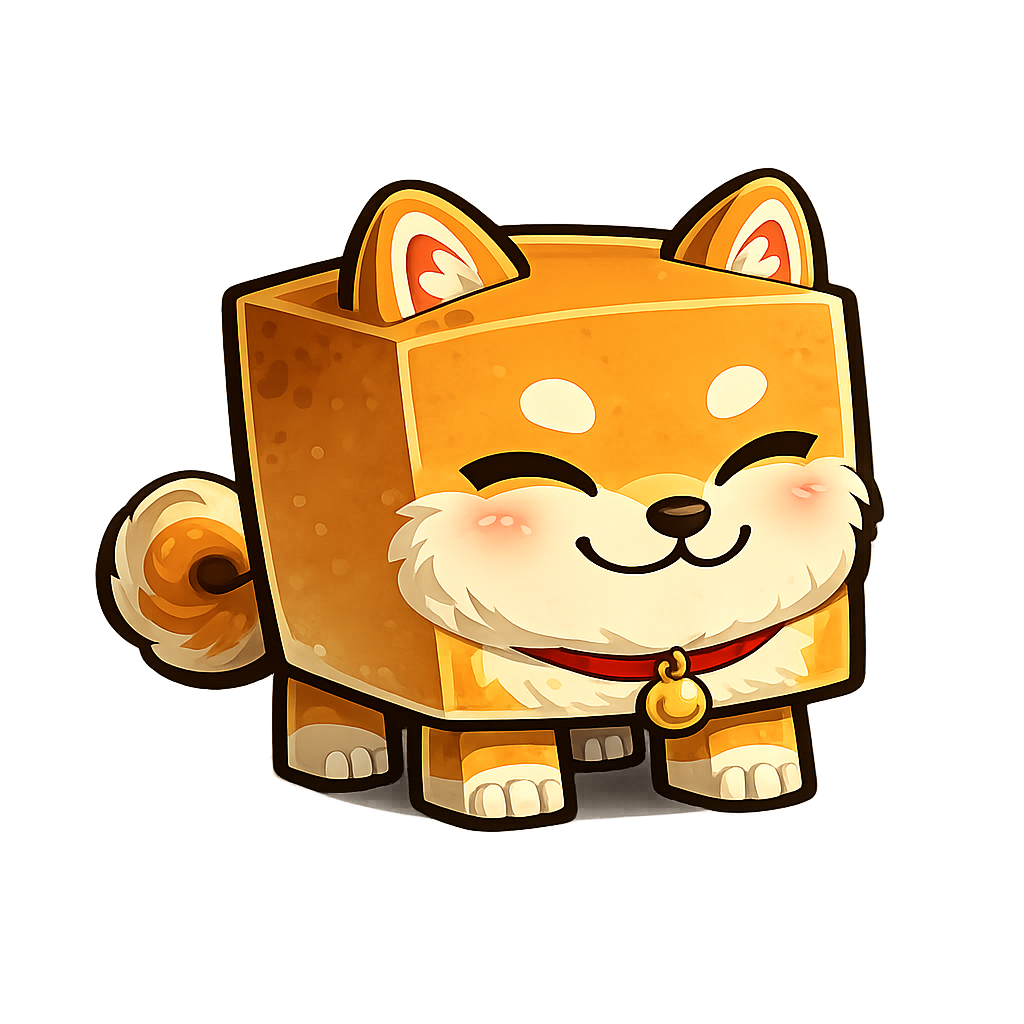
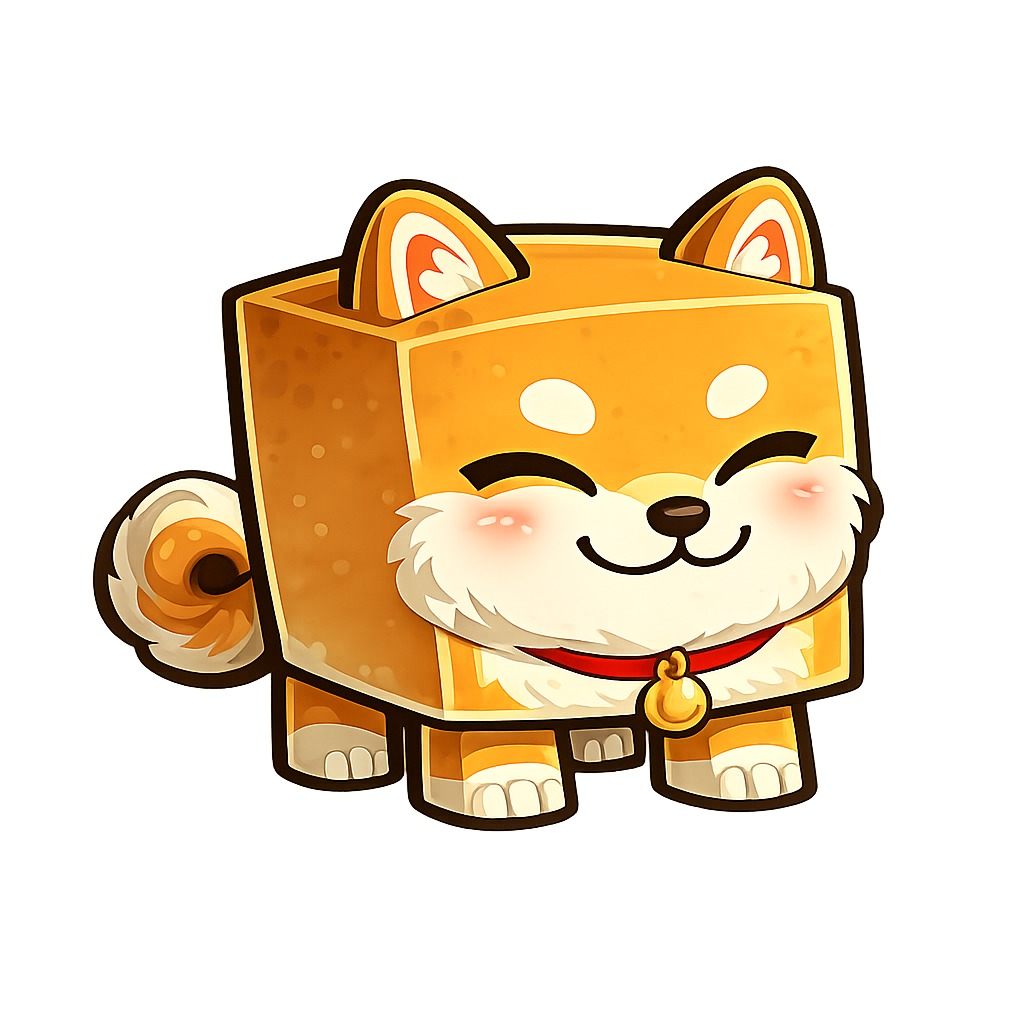
Implement level-up feature with new egg mechanics and localization updates
- Added LevelUpData interface to manage level-up events, including egg changes.
- Updated GameManager to emit detailed level-up events with egg key changes.
- Introduced LevelUpOverlay in MainScene to display level-up notifications.
- Enhanced egg-related functions in data layer for better odds representation.
- Updated English and Russian localization files to include new level-up messages.
- Replaced Shiba.webp with Shiba.png for improved asset consistency.

diff --git a/src/ui/LevelUpOverlay.ts b/src/ui/LevelUpOverlay.ts
@@ -1,0 +1,155 @@
+import { GameObjects, Scene } from 'phaser';
+import { GAME_WIDTH, GAME_HEIGHT, UI } from '../core/config';
+import { LevelUpData } from '../types';
+import { getEggNameKey, getEggMinOdds } from '../data/eggs';
+import { t } from '../data/locales';
+
+const CX = GAME_WIDTH / 2;
+const CY = GAME_HEIGHT / 2;
+const DEPTH = 103;
+
+export class LevelUpOverlay {
+    private scene: Scene;
+    private overlay: GameObjects.Rectangle;
+    private elements: GameObjects.GameObject[] = [];
+
+    constructor(scene: Scene, overlay: GameObjects.Rectangle) {
+        this.scene = scene;
+        this.overlay = overlay;
+    }
+
+    show(data: LevelUpData, autorollActive: boolean, onComplete: () => void): void {
+        this.cleanup();
+
+        const container = this.scene.add.container(CX, CY).setDepth(DEPTH).setScale(0).setAlpha(1);
+        this.elements.push(container);
+
+        // Title (28 * 1.5 = 42)
+        const title = this.scene.add.text(0, -95, t('levelup_title'), {
+            fontFamily: UI.FONT_MAIN,
+            fontSize: '42px',
+            color: '#ffc107',
+            stroke: '#000000',
+            strokeThickness: UI.STROKE_THICK,
+        }).setOrigin(0.5);
+        container.add(title);
+
+        // Level number (20 * 1.5 = 30)
+        const levelText = this.scene.add.text(0, -55, `${t('level')} ${data.level}`, {
+            fontFamily: UI.FONT_MAIN,
+            fontSize: '30px',
+            color: '#ffffff',
+            stroke: '#000000',
+            strokeThickness: UI.STROKE_THICK,
+        }).setOrigin(0.5);
+        container.add(levelText);
+
+        if (data.eggChanged) {
+            this.buildEggTransition(container, data);
+        } else {
+            this.buildSingleEgg(container, data);
+        }
+
+        // Egg effect text (white, both cases)
+        const effectY = data.eggChanged ? 120 : 135;
+        const odds = getEggMinOdds(data.level);
+        const effectStr = t('egg_effect').replace('{odds}', odds);
+        const effect = this.scene.add.text(0, effectY, effectStr, {
+            fontFamily: UI.FONT_MAIN,
+            fontSize: '18px',
+            color: '#ffffff',
+            stroke: '#000000',
+            strokeThickness: UI.STROKE_MEDIUM,
+        }).setOrigin(0.5);
+        container.add(effect);
+
+        // Animate in
+        this.scene.tweens.add({
+            targets: container,
+            scale: 1,
+            duration: 300,
+            ease: 'Back.easeOut',
+        });
+
+        // Hold then fade
+        const holdTime = autorollActive ? 400 : 900;
+        this.scene.time.delayedCall(holdTime + 300, () => {
+            this.fadeOut(autorollActive, onComplete);
+        });
+    }
+
+    private buildEggTransition(container: GameObjects.Container, data: LevelUpData): void {
+        // Old egg (left)
+        const oldEgg = this.scene.add.image(-80, 20, data.oldEggKey)
+            .setDisplaySize(100, 100);
+        container.add(oldEgg);
+
+        // Arrow image (rotated -90deg so it points right)
+        const arrow = this.scene.add.image(0, 20, 'ui_arrow')
+            .setDisplaySize(32, 32)
+            .setRotation(-Math.PI / 2);
+        container.add(arrow);
+
+        // New egg (right)
+        const newEgg = this.scene.add.image(80, 20, data.eggKey)
+            .setDisplaySize(100, 100);
+        container.add(newEgg);
+
+        // "New Egg: Golden Egg" — single line, yellow (16 * 1.5 = 24)
+        const label = `${t('levelup_new_egg')} ${t(getEggNameKey(data.eggKey))}`;
+        const newEggLabel = this.scene.add.text(0, 90, label, {
+            fontFamily: UI.FONT_MAIN,
+            fontSize: '24px',
+            color: '#ffc107',
+            stroke: '#000000',
+            strokeThickness: UI.STROKE_MEDIUM,
+        }).setOrigin(0.5);
+        container.add(newEggLabel);
+    }
+
+    private buildSingleEgg(container: GameObjects.Container, data: LevelUpData): void {
+        // Current egg centered
+        const egg = this.scene.add.image(0, 30, data.eggKey)
+            .setDisplaySize(120, 120);
+        container.add(egg);
+
+        // Egg name (14 * 1.5 = 21)
+        const eggName = this.scene.add.text(0, 108, t(getEggNameKey(data.eggKey)), {
+            fontFamily: UI.FONT_MAIN,
+            fontSize: '21px',
+            color: '#ffffff',
+            stroke: '#000000',
+            strokeThickness: UI.STROKE_MEDIUM,
+        }).setOrigin(0.5);
+        container.add(eggName);
+    }
+
+    private fadeOut(autorollActive: boolean, onComplete: () => void): void {
+        // Fade overlay unless autoroll keeps it
+        if (!autorollActive) {
+            this.scene.tweens.add({
+                targets: this.overlay,
+                fillAlpha: 0,
+                duration: 250,
+            });
+        }
+
+        // Fade content
+        this.scene.tweens.add({
+            targets: this.elements,
+            alpha: 0,
+            duration: 250,
+            onComplete: () => {
+                this.cleanup();
+                onComplete();
+            },
+        });
+    }
+
+    private cleanup(): void {
+        for (const el of this.elements) {
+            el.destroy();
+        }
+        this.elements = [];
+    }
+}

diff --git a/src/scenes/MainScene.ts b/src/scenes/MainScene.ts
@@ -4,6 +4,7 @@ import { EventBus } from '../core/EventBus';
 import { GameManager } from '../core/GameManager';
 import { TopBar } from '../ui/TopBar';
 import { CenterStage } from '../ui/CenterStage';
+import { LevelUpOverlay } from '../ui/LevelUpOverlay';
 import { RightPanel } from '../ui/RightPanel';
 import { CollectionButton } from '../ui/CollectionButton';
 import { SettingsButton } from '../ui/SettingsButton';
@@ -12,9 +13,8 @@ import { BonusPanel } from '../ui/BonusPanel';
 import { Leaderboard } from '../ui/Leaderboard';
 import { NicknamePrompt } from '../ui/NicknamePrompt';
 import { ArrowHint } from '../ui/ArrowHint';
-import { showFloatingText } from '../ui/components/FloatingText';
 import { PETS } from '../data/pets';
-import { PetDef, RollResult } from '../types';
+import { PetDef, RollResult, LevelUpData } from '../types';
 import { AudioSystem } from '../systems/AudioSystem';
 import { t } from '../data/locales';
 
@@ -35,6 +35,8 @@ export class MainScene extends Scene {
     private pauseOverlay!: Phaser.GameObjects.Container;
     private arrowHint: ArrowHint | null = null;
     private idleTimer = 0;
+    private levelUpOverlay!: LevelUpOverlay;
+    private pendingLevelUp: LevelUpData | null = null;
 
     constructor() {
         super('MainScene');
@@ -70,6 +72,7 @@ export class MainScene extends Scene {
 
         this.leaderboard = new Leaderboard(this);
         this.centerStage = new CenterStage(this);
+        this.levelUpOverlay = new LevelUpOverlay(this, this.centerStage.getOverlay());
 
         this.rightPanel = new RightPanel(
             this,
@@ -214,19 +217,29 @@ export class MainScene extends Scene {
     private onRollComplete(result: RollResult): void {
         this.rightPanel.setRolling(true);
         this.centerStage.playHatch(result, () => {
-            this.manager.finishRoll();
-            this.rightPanel.setRolling(false);
-            this.refreshUI();
+            if (this.pendingLevelUp) {
+                const data = this.pendingLevelUp;
+                this.pendingLevelUp = null;
+                const autoActive = this.manager.buffs.isAutorollActive();
+                this.levelUpOverlay.show(data, autoActive, () => {
+                    this.centerStage.setEggImage(data.eggKey);
+                    this.bgImage.setTexture(data.bgKey);
+                    this.centerStage.setKeepOverlay(false);
+                    this.manager.finishRoll();
+                    this.rightPanel.setRolling(false);
+                    this.refreshUI();
+                });
+            } else {
+                this.manager.finishRoll();
+                this.rightPanel.setRolling(false);
+                this.refreshUI();
+            }
         });
     }
 
-    private onLevelUp(data: { level: number; eggKey: string; bgKey: string }): void {
-        showFloatingText(
-            this, GAME_WIDTH / 2, GAME_HEIGHT / 2 - 100,
-            `${t('level_up')} ${data.level}`, '#ffc107', 24,
-        );
-        this.centerStage.setEggImage(data.eggKey);
-        this.bgImage.setTexture(data.bgKey);
+    private onLevelUp(data: LevelUpData): void {
+        this.pendingLevelUp = data;
+        this.centerStage.setKeepOverlay(true);
     }
 
     private onBuffActivated(buff: string): void {

diff --git a/src/ui/CenterStage.ts b/src/ui/CenterStage.ts
@@ -19,6 +19,7 @@ export class CenterStage extends GameObjects.Container {
     private slots: PedestalSlot[] = [];
     private audio: AudioSystem | null = null;
     private autorollOverlayActive = false;
+    private keepOverlay = false;
 
     // Roll overlay elements
     private overlay: GameObjects.Rectangle;
@@ -289,8 +290,8 @@ export class CenterStage extends GameObjects.Container {
         // 5) Hold, then fade out reveal elements (shorter hold during autoroll)
         const holdTime = this.autorollOverlayActive ? 400 : 900;
         scene.time.delayedCall(holdTime, () => {
-            // Only fade overlay if autoroll is NOT keeping it persistent
-            if (!this.autorollOverlayActive) {
+            // Only fade overlay if nothing is keeping it persistent
+            if (!this.autorollOverlayActive && !this.keepOverlay) {
                 scene.tweens.add({
                     targets: this.overlay,
                     fillAlpha: 0,
@@ -313,6 +314,14 @@ export class CenterStage extends GameObjects.Container {
             });
         });
     }
+    setKeepOverlay(keep: boolean): void {
+        this.keepOverlay = keep;
+    }
+
+    getOverlay(): GameObjects.Rectangle {
+        return this.overlay;
+    }
+
     setAutorollOverlay(active: boolean): void {
         this.autorollOverlayActive = active;
         this.scene.tweens.killTweensOf(this.overlay);

diff --git a/src/data/eggs.ts b/src/data/eggs.ts
@@ -1,6 +1,6 @@
 import { PetDef } from '../types';
 import { PETS } from './pets';
-import { getVisualTier, VISUAL_TIERS } from '../core/config';
+import { getVisualTier, VISUAL_TIERS, getOddsString } from '../core/config';
 
 export const TOTAL_EGGS = VISUAL_TIERS.length;
 
@@ -23,6 +23,24 @@ export function getEggFilterForLevel(level: number): number {
 /** Egg image key for a given level (changes at VISUAL_TIERS thresholds) */
 export function getEggImageKey(level: number): string {
     return `egg_${getVisualTier(level)}`;
+}
+
+/** Map egg image key (egg_1..egg_17) to a locale name key */
+export function getEggNameKey(eggImageKey: string): string {
+    const tier = parseInt(eggImageKey.replace('egg_', ''));
+    if (tier >= 15) return 'egg_cosmic';
+    if (tier >= 11) return 'egg_fire';
+    if (tier >= 8) return 'egg_crystal';
+    if (tier >= 5) return 'egg_golden';
+    return 'egg_basic';
+}
+
+/** Get formatted min odds string for a given level's egg pool */
+export function getEggMinOdds(level: number): string {
+    const eligible = getEligiblePets(level);
+    if (eligible.length === 0) return '1/2';
+    const minChance = eligible.reduce((min, p) => p.chance < min ? p.chance : min, Infinity);
+    return getOddsString(minChance);
 }
 
 export function getEligiblePets(level: number): PetDef[] {

diff --git a/src/core/GameManager.ts b/src/core/GameManager.ts
@@ -6,7 +6,7 @@ import { SaveSystem } from '../systems/SaveSystem';
 import { BuffSystem } from '../systems/BuffSystem';
 import { getEligiblePets, getEggImageKey } from '../data/eggs';
 import { getBgImageKey } from '../data/backgrounds';
-import { RollResult } from '../types';
+import { RollResult, LevelUpData } from '../types';
 
 export class GameManager {
     rng: RNGSystem;
@@ -62,13 +62,18 @@ export class GameManager {
         EventBus.emit('roll-complete', result);
         EventBus.emit('buffs-changed');
 
+        const oldEggKey = getEggImageKey(this.progression.level);
         const leveledUp = this.progression.checkLevelUp();
         if (leveledUp) {
-            EventBus.emit('level-up', {
+            const newEggKey = getEggImageKey(this.progression.level);
+            const levelUpData: LevelUpData = {
                 level: this.progression.level,
-                eggKey: getEggImageKey(this.progression.level),
+                eggKey: newEggKey,
                 bgKey: getBgImageKey(this.progression.level),
-            });
+                oldEggKey,
+                eggChanged: oldEggKey !== newEggKey,
+            };
+            EventBus.emit('level-up', levelUpData);
         }
 
         this.persistSave(result);

diff --git a/src/ui/SettingsButton.ts b/src/ui/SettingsButton.ts
@@ -7,20 +7,21 @@ export class SettingsButton extends GameObjects.Container {
         super(scene, GAME_WIDTH - 40, 36);
 
         const bg = scene.add.graphics();
-        bg.fillStyle(0x000000, 0.4);
-        bg.fillCircle(0, 0, 30);
+        bg.fillStyle(0x000000, 0.75);
+        bg.fillCircle(0, 0, 26);
         this.add(bg);
 
-        const icon = scene.add.text(0, 0, '\u2699', {
+        const icon = scene.add.text(0, 2, '\u2699', {
             fontSize: '36px',
             color: '#ffffff',
+            resolution: 2,
         }).setOrigin(0.5);
         this.add(icon);
 
-        this.setSize(60, 60);
+        this.setSize(52, 52);
         this.setInteractive({ useHandCursor: true });
         this.on('pointerdown', onPress);
-        addButtonFeedback(scene, this);
+        addButtonFeedback(scene, this, { hoverScale: 1.08 });
 
         scene.add.existing(this);
     }

diff --git a/src/data/locales/ru.ts b/src/data/locales/ru.ts
@@ -12,6 +12,11 @@ export const ru: Record<string, string> = {
     'duplicate': 'Дубликат',
     'level_up': 'УРОВЕНЬ!',
 
+    // Level Up
+    'levelup_title': 'НОВЫЙ УРОВЕНЬ!',
+    'levelup_new_egg': 'Новое яйцо:',
+    'egg_effect': 'Роллит питомцев {odds} и выше!',
+
     // Grades
     'grade_common': 'Обычный',
     'grade_uncommon': 'Необычный',

diff --git a/src/data/locales/en.ts b/src/data/locales/en.ts
@@ -12,6 +12,11 @@ export const en: Record<string, string> = {
     'duplicate': 'Duplicate',
     'level_up': 'LEVEL UP!',
 
+    // Level Up
+    'levelup_title': 'LEVEL UP!',
+    'levelup_new_egg': 'New Egg:',
+    'egg_effect': 'Rolls pets {odds} and more!',
+
     // Grades
     'grade_common': 'Common',
     'grade_uncommon': 'Uncommon',

diff --git a/src/types/index.ts b/src/types/index.ts
@@ -38,6 +38,14 @@ export interface RollLogEntry {
     xp: number;
 }
 
+export interface LevelUpData {
+    level: number;
+    eggKey: string;
+    bgKey: string;
+    oldEggKey: string;
+    eggChanged: boolean;
+}
+
 export interface SaveData {
     version: number;
     level: number;
